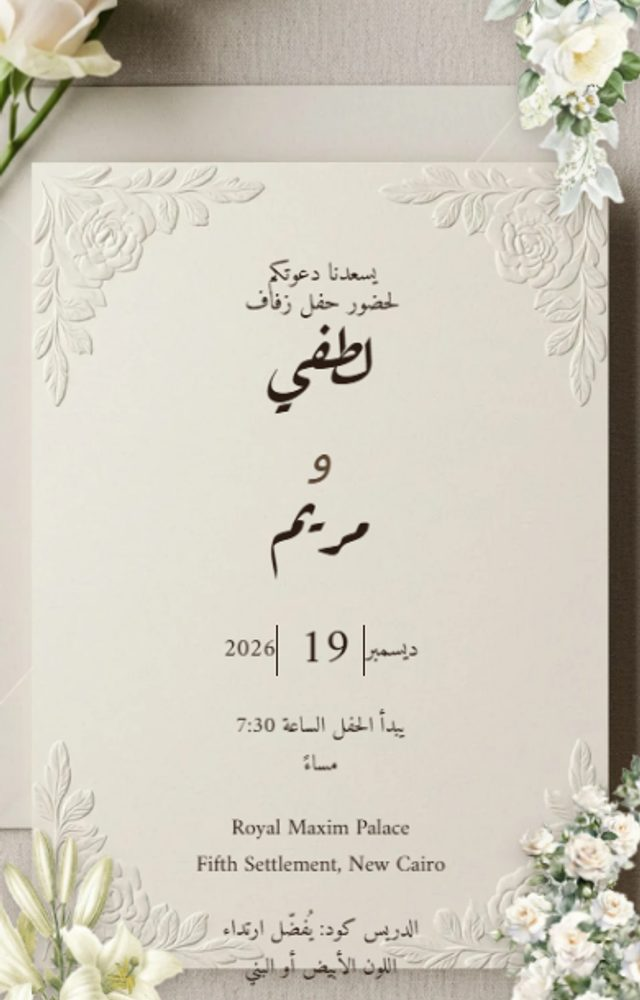
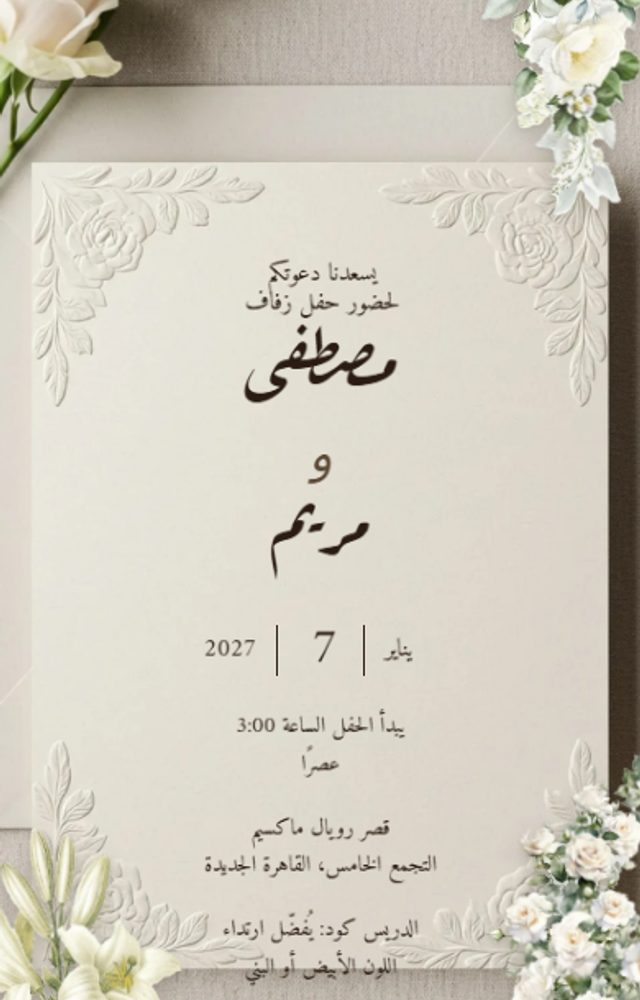
Champagne Lace: مسافة التاريخ في النسخة العربي + صورة المعرض العربي ببيانات عربي
- هوامش الشهر/السنة في كارت الدعوة كانت معمولة للاتجاه اللاتيني، فالشهر
  كان لازق في الخط الفاصل في RTL — مسافة متساوية من الناحيتين.
- صورة اختيار النسخة العربي اتعملت تاني بقاعة وعنوان بالعربي.

Claude-Session: https://claude.ai/code/session_01WWr143PkEpXc8CSVh9AHnN

diff --git a/views/champagne-lace.html b/views/champagne-lace.html
@@ -3118,6 +3118,8 @@
             body.cl-ar :is(.hv-small, .hv-venue, .hv-reveal__hint, .hv-tile__label, .cd-lbl, .cd-cal, .vn-addr, .vn-dir,
                 .rs-label, .rs-field legend, .rs-err, .rs-status) { font-size: 13.5px !important; line-height: 1.7 !important; }
             body.cl-ar .hv-date :is(.hv-date__m, .hv-date__y) { font-size: 15px !important; }
+            /* هوامش التاريخ معمولة للاتجاه اللاتيني — في RTL الشهر كان لازق في الخط الفاصل */
+            body.cl-ar .hv-date :is(.hv-date__m, .hv-date__y) { padding-left: 12px !important; padding-right: 12px !important; }
             body.cl-ar :is(.cd-date) { font-size: 15px !important; }
             body.cl-ar :is(.cd-note, .cd-done, .rs-sub, .rs-thanks__text) { font-size: 17px !important; }
             body.cl-ar :is(.rs-choice, .rs-input, .rs-textarea) { font-size: 15px !important; }
